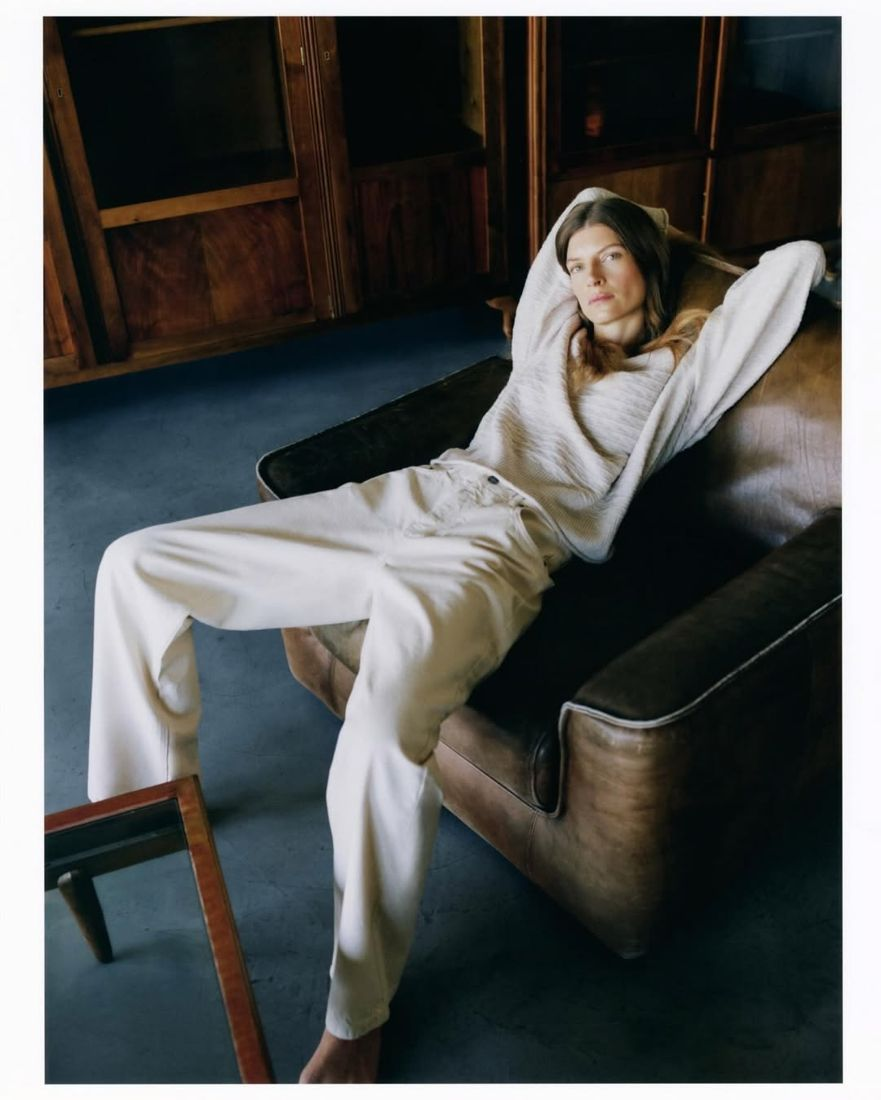
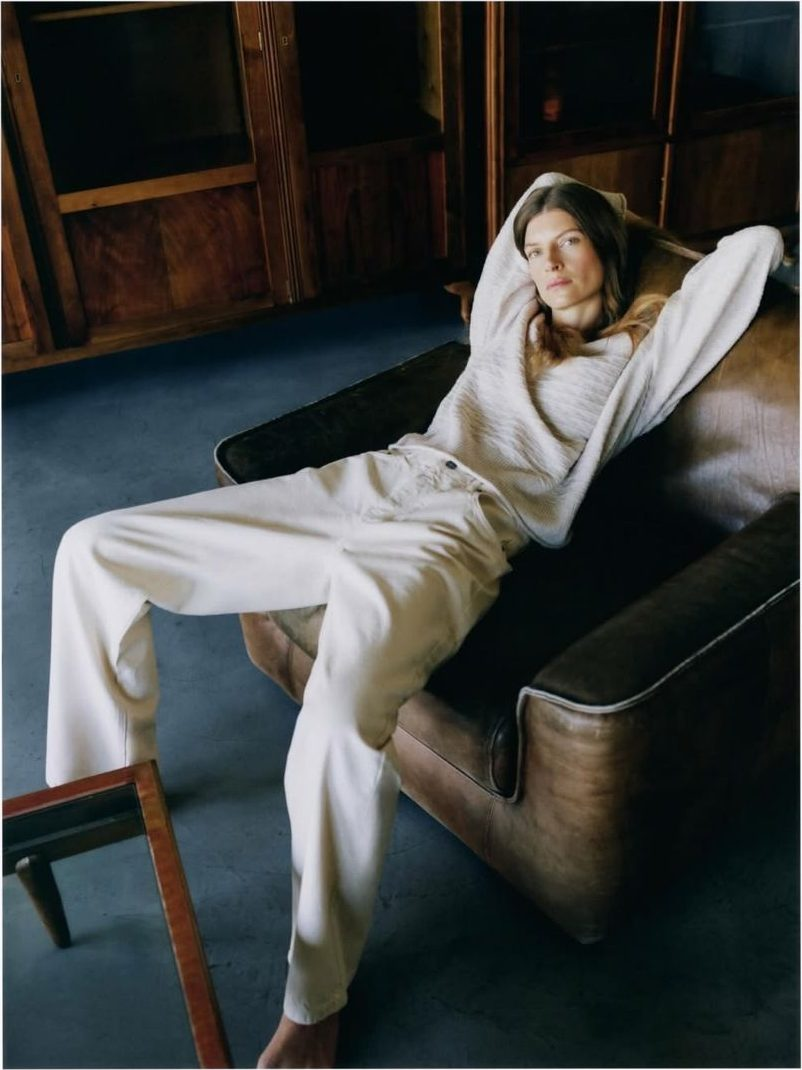
Add files via upload

diff --git a/index.html b/index.html
@@ -104,6 +104,13 @@
     .rules{grid-template-columns:1fr 1fr;gap:48px}
   }
   @media (min-width:1100px){ .board{columns:4} }
+
+  .board{columns:auto!important;display:grid;gap:8px}
+  .row{display:flex;gap:8px;align-items:flex-start}
+  .row figure{margin:0!important;min-width:0}
+  .cover-imgs{display:flex!important;gap:8px;align-items:flex-start}
+  .cover-imgs img{min-width:0}
+  @media (min-width:760px){ .board{gap:12px} .row{gap:12px} }
 </style>
 </head>
 <body>
@@ -132,8 +139,8 @@
       </div>
     </div>
     <div class="cover-imgs">
-      <img src="2391.jpg" alt="Seated in a chair, white shirt">
-      <img src="2387.jpg" alt="Standing in a window corner">
+      <img src="2391.jpg" width="636" height="814" alt="Seated in a chair, white shirt">
+      <img src="2387.jpg" width="733" height="1100" alt="Standing in a window corner">
     </div>
   </div>
 </header>
@@ -200,14 +207,14 @@
       </ul>
     </div>
     <div class="board">
-      <figure><img src="2256.jpg" alt=""></figure>
-      <figure><img src="2263.jpg" alt=""></figure>
-      <figure><img src="2266.jpg" alt=""></figure>
-      <figure><img src="2261.jpg" alt=""></figure>
-      <figure><img src="2264.jpg" alt=""></figure>
-      <figure><img src="2262.jpg" alt=""></figure>
-      <figure><img src="2392.jpg" alt=""></figure>
-      <figure><img src="2385.jpg" alt=""></figure>
+      <figure><img src="2256.jpg" width="891" height="1100" alt=""></figure>
+      <figure><img src="2263.jpg" width="778" height="1100" alt=""></figure>
+      <figure><img src="2266.jpg" width="895" height="1100" alt=""></figure>
+      <figure><img src="2261.jpg" width="937" height="1100" alt=""></figure>
+      <figure><img src="2264.jpg" width="802" height="1070" alt=""></figure>
+      <figure><img src="2262.jpg" width="803" height="1100" alt=""></figure>
+      <figure><img src="2392.jpg" width="733" height="1100" alt=""></figure>
+      <figure><img src="2385.jpg" width="843" height="1100" alt=""></figure>
     </div>
   </div>
 
@@ -221,11 +228,11 @@
       </ul>
     </div>
     <div class="board">
-      <figure><img src="2258.jpg" alt=""></figure>
-      <figure><img src="2391.jpg" alt=""></figure>
-      <figure><img src="2384.jpg" alt=""></figure>
-      <figure><img src="2260.jpg" alt=""></figure>
-      <figure><img src="2265.jpg" alt=""></figure>
+      <figure><img src="2258.jpg" width="880" height="1100" alt=""></figure>
+      <figure><img src="2391.jpg" width="636" height="814" alt=""></figure>
+      <figure><img src="2384.jpg" width="700" height="990" alt=""></figure>
+      <figure><img src="2260.jpg" width="795" height="1100" alt=""></figure>
+      <figure><img src="2265.jpg" width="1100" height="849" alt=""></figure>
     </div>
   </div>
 
@@ -239,9 +246,9 @@
       </ul>
     </div>
     <div class="board">
-      <figure><img src="2257.jpg" alt=""></figure>
-      <figure><img src="2267.jpg" alt=""></figure>
-      <figure><img src="2386.jpg" alt=""></figure>
+      <figure><img src="2257.jpg" width="786" height="1100" alt=""></figure>
+      <figure><img src="2267.jpg" width="733" height="1100" alt=""></figure>
+      <figure><img src="2386.jpg" width="792" height="1100" alt=""></figure>
     </div>
   </div>
 
@@ -255,12 +262,12 @@
       </ul>
     </div>
     <div class="board">
-      <figure><img src="2270.jpg" alt=""></figure>
-      <figure><img src="2269.jpg" alt=""></figure>
-      <figure><img src="2272.jpg" alt=""></figure>
-      <figure><img src="2393.jpg" alt=""></figure>
-      <figure><img src="2268.jpg" alt=""></figure>
-      <figure><img src="2259.jpg" alt=""></figure>
+      <figure><img src="2270.jpg" width="735" height="919" alt=""></figure>
+      <figure><img src="2269.jpg" width="843" height="1100" alt=""></figure>
+      <figure><img src="2272.jpg" width="880" height="1100" alt=""></figure>
+      <figure><img src="2393.jpg" width="733" height="1100" alt=""></figure>
+      <figure><img src="2268.jpg" width="1000" height="653" alt=""></figure>
+      <figure><img src="2259.jpg" width="880" height="1100" alt=""></figure>
     </div>
   </div>
 
@@ -274,10 +281,10 @@
       </ul>
     </div>
     <div class="board">
-      <figure><img src="2387.jpg" alt=""></figure>
-      <figure><img src="2388.jpg" alt=""></figure>
-      <figure><img src="2389.jpg" alt=""></figure>
-      <figure><img src="2394.jpg" alt=""></figure>
+      <figure><img src="2387.jpg" width="733" height="1100" alt=""></figure>
+      <figure><img src="2388.jpg" width="886" height="1100" alt=""></figure>
+      <figure><img src="2389.jpg" width="825" height="1100" alt=""></figure>
+      <figure><img src="2394.jpg" width="733" height="1100" alt=""></figure>
     </div>
   </div>
 
@@ -290,9 +297,9 @@
       </ul>
     </div>
     <div class="board">
-      <figure><img src="2255.jpg" alt=""></figure>
-      <figure><img src="2271.jpg" alt=""></figure>
-      <figure><img src="2390.jpg" alt=""></figure>
+      <figure><img src="2255.jpg" width="886" height="1100" alt=""></figure>
+      <figure><img src="2271.jpg" width="880" height="1100" alt=""></figure>
+      <figure><img src="2390.jpg" width="804" height="1026" alt=""></figure>
     </div>
   </div>
 </section>
@@ -376,5 +383,30 @@
   <span class="small">peoplefirst.eu.com · November 2026</span>
 </footer>
 
+
+<script>
+(function(){
+  function ratio(img){return (+img.getAttribute('width'))/(+img.getAttribute('height'));}
+  var boards=[].slice.call(document.querySelectorAll('.board'));
+  var data=boards.map(function(b){return [].slice.call(b.querySelectorAll('figure'));});
+  function per(){var w=window.innerWidth;return w<760?2:3;}
+  var last=0;
+  function layout(){
+    var k=per(); if(k===last) return; last=k;
+    boards.forEach(function(b,i){
+      var figs=data[i], n=figs.length, rows=Math.max(1,Math.floor(n/k));
+      b.innerHTML=''; var idx=0;
+      for(var r=0;r<rows;r++){
+        var cnt=Math.floor(n/rows)+(r<n%rows?1:0);
+        var row=document.createElement('div'); row.className='row';
+        for(var j=0;j<cnt;j++){var f=figs[idx++]; f.style.flex=ratio(f.querySelector('img'))+' 1 0'; row.appendChild(f);}
+        b.appendChild(row);
+      }
+    });
+  }
+  [].slice.call(document.querySelectorAll('.cover-imgs img')).forEach(function(img){img.style.flex=ratio(img)+' 1 0';});
+  layout(); window.addEventListener('resize',layout);
+})();
+</script>
 </body>
 </html>
